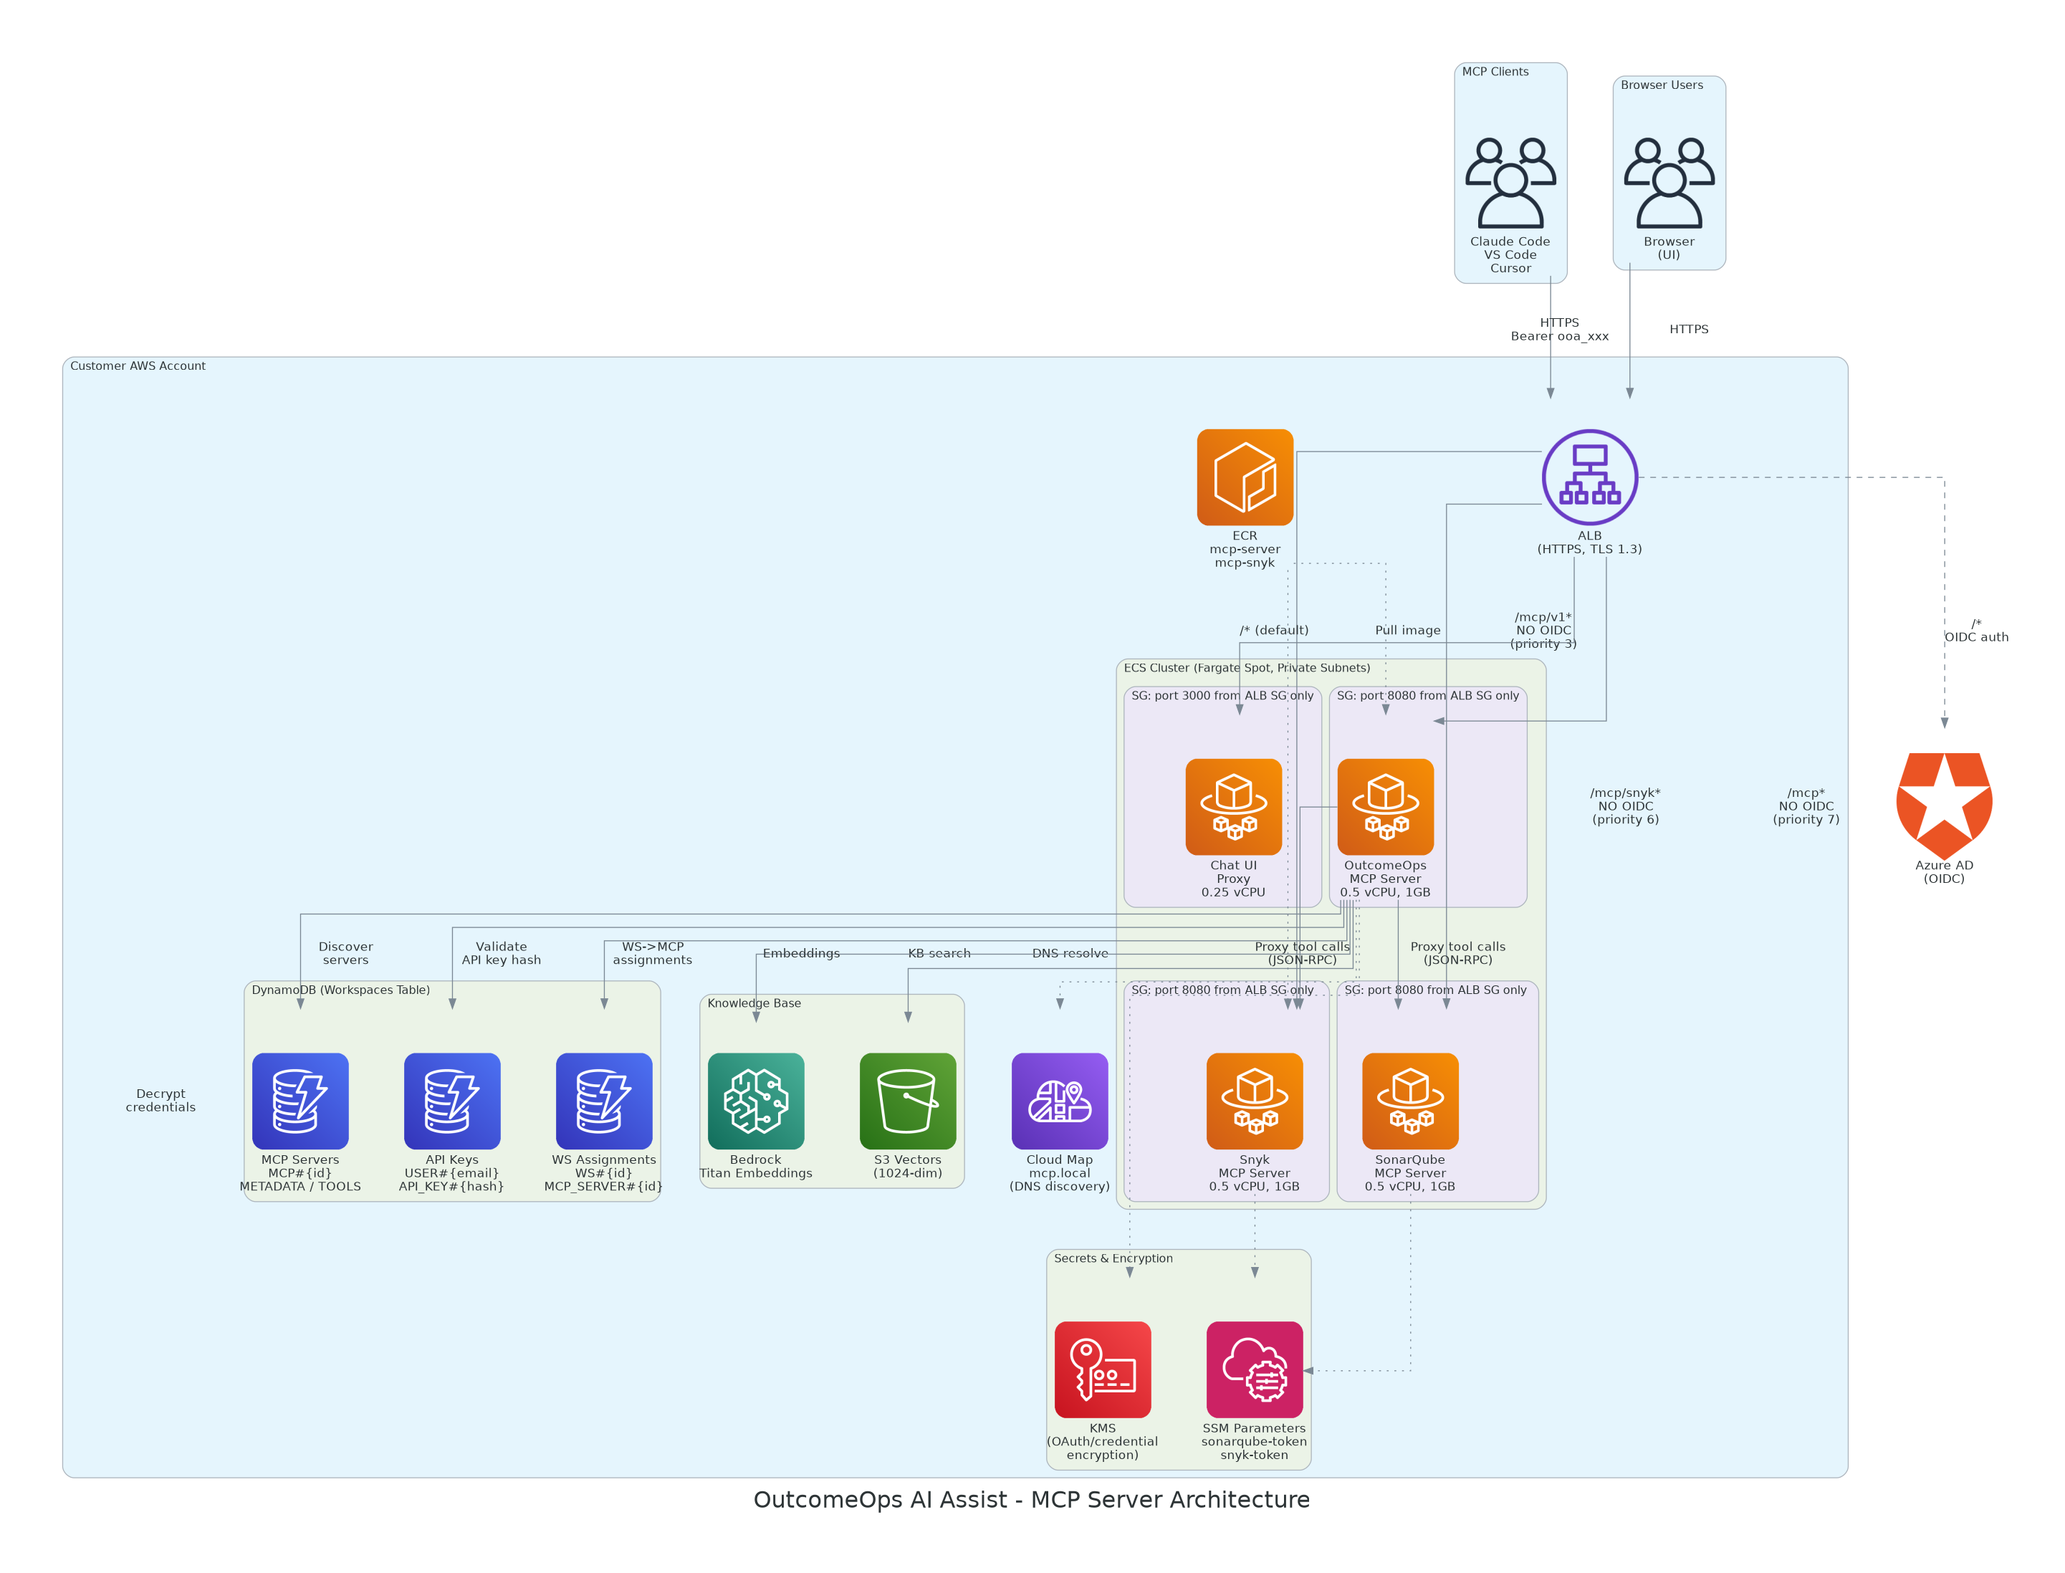
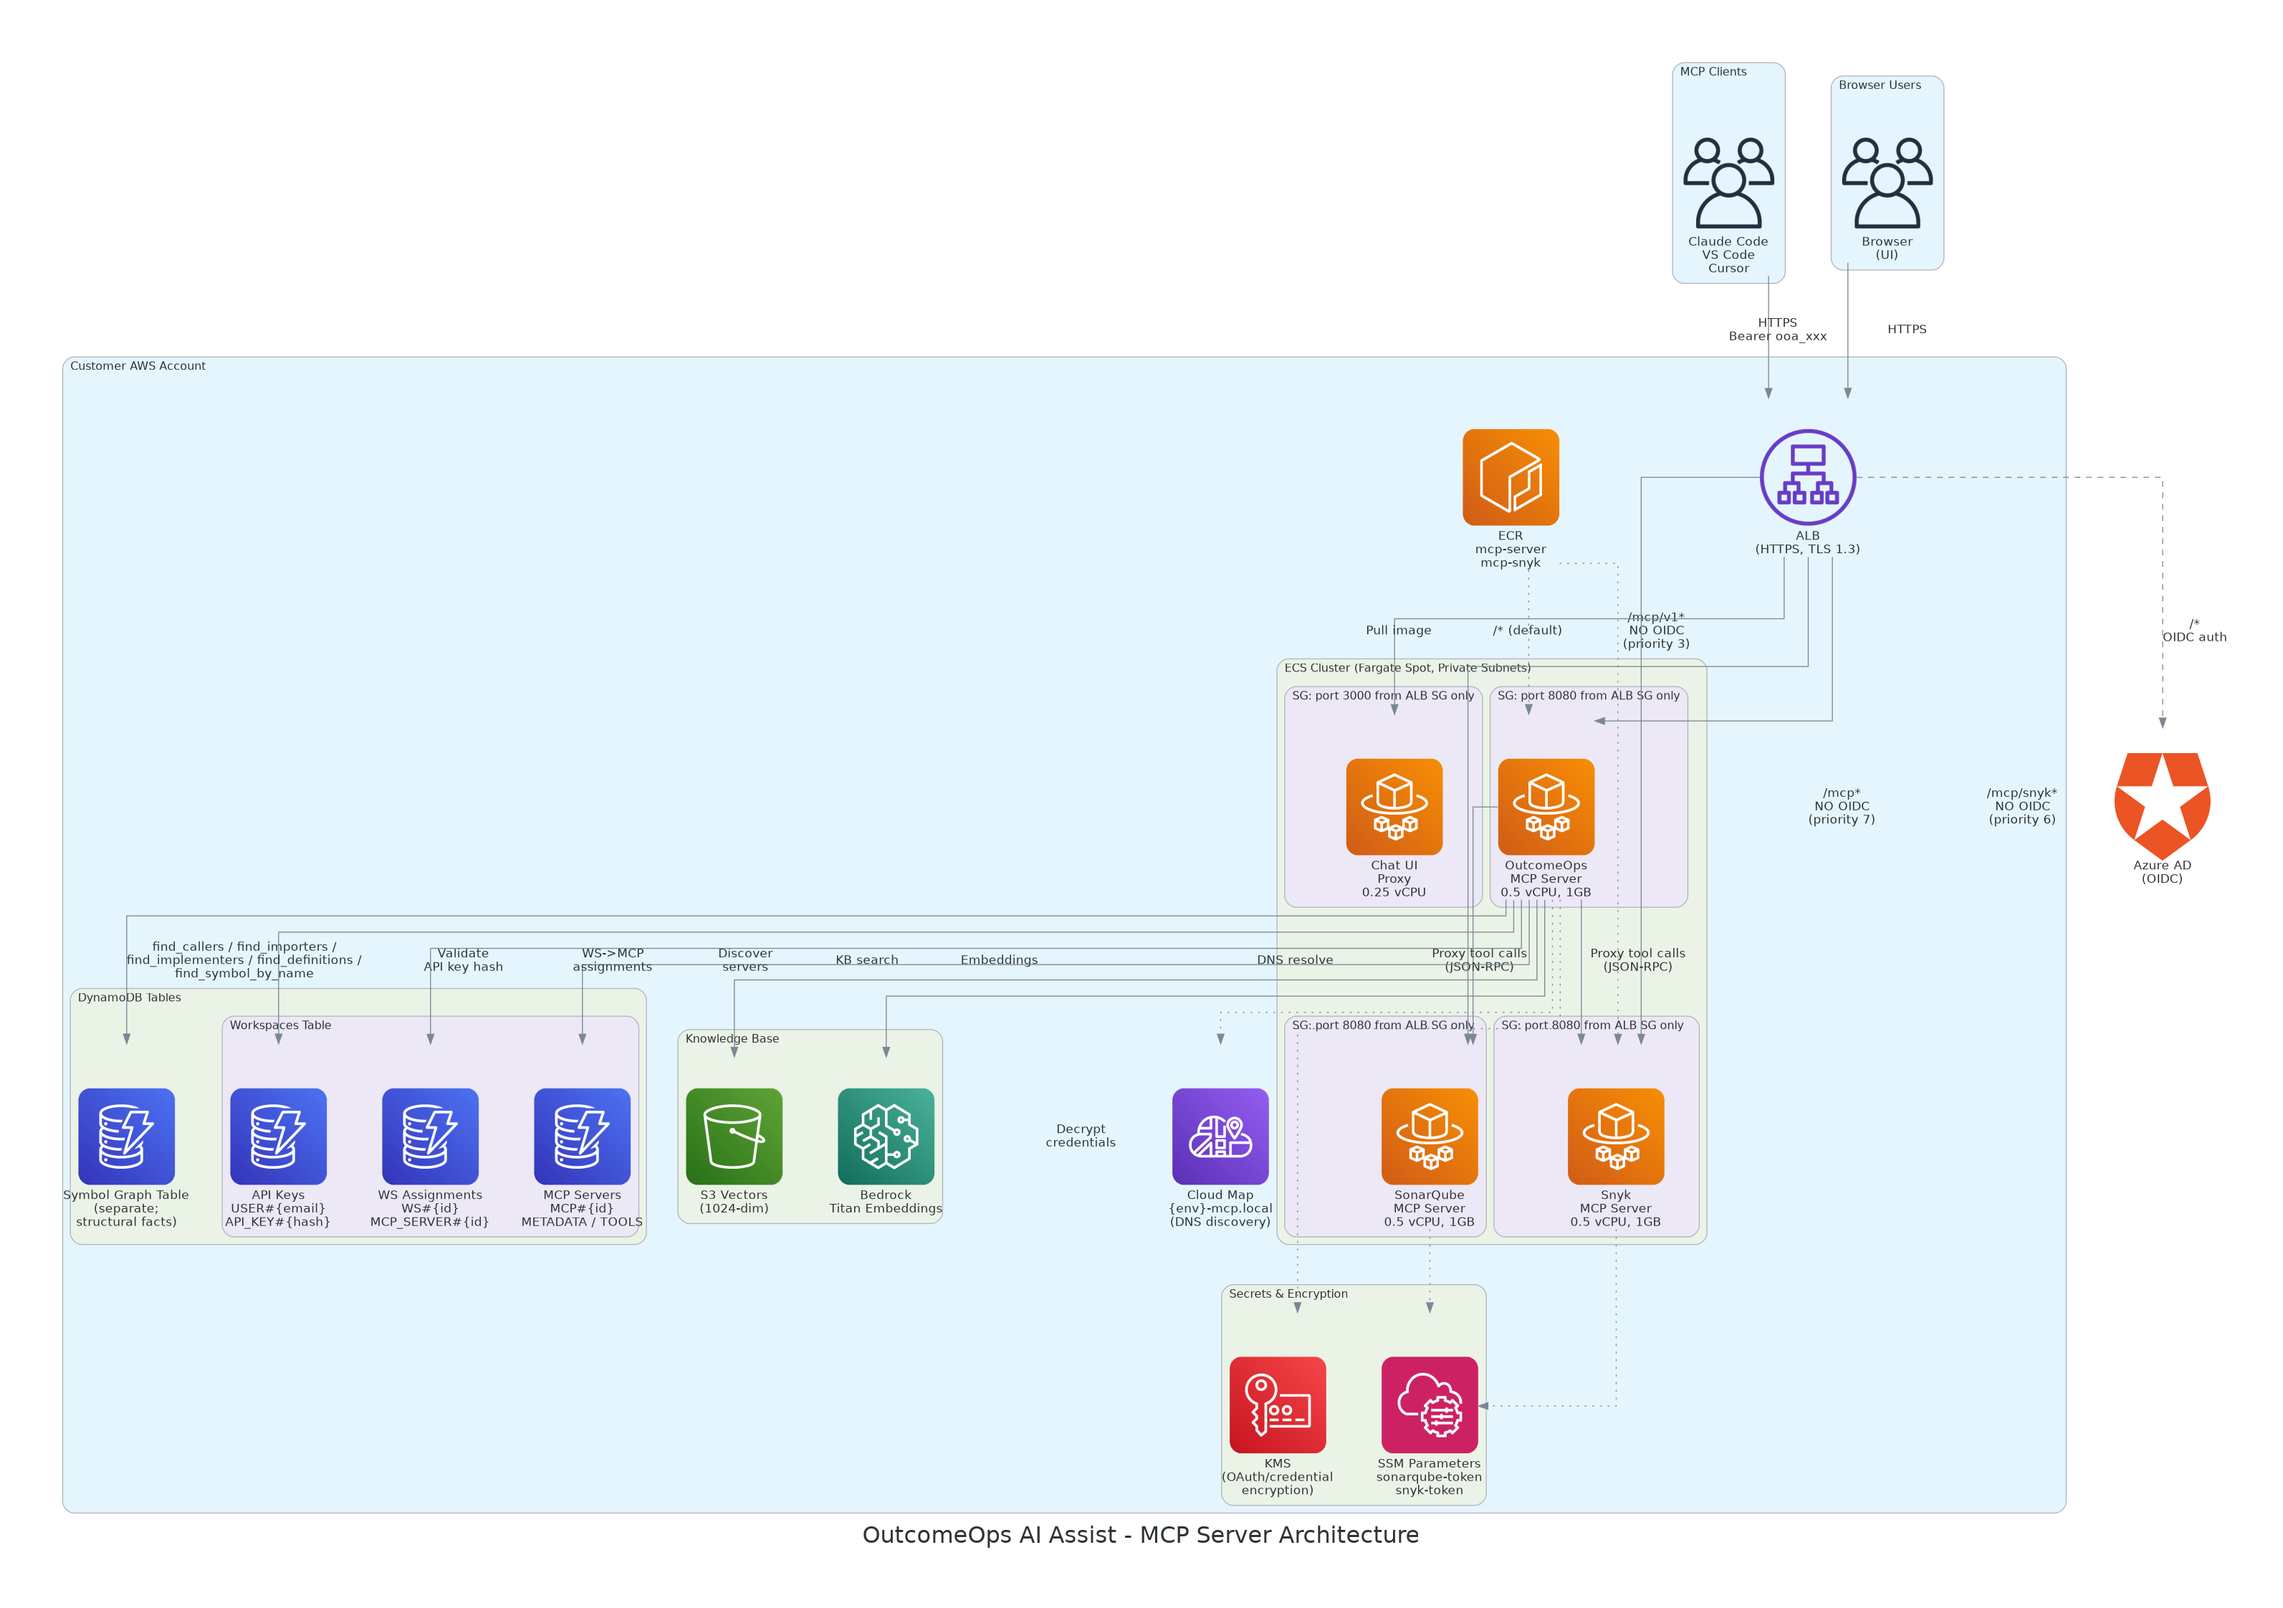
docs(diagrams): add symbol-graph, database, OneDrive/OneNote across 4 diagrams
Three capabilities shipped since these diagrams were last touched and
appeared in none of them:

- Symbol-graph (tree-sitter structural retrieval) — added as a
  separate DDB table node in system_architecture, mcp_architecture,
  and aws_marketplace_architecture; added as a read in data_flow
  Flow 1a (writer) and Flow 2 (router-gated reader). Flow 2 now
  draws the chat router (Bedrock intent classifier) explicitly,
  with the symbol-graph branch dashed as conditional on
  structural/hybrid/unknown intent. mcp_architecture exposes the
  five find_* tools as a labeled edge from the OutcomeOps MCP
  server to the symbol-graph table.

- Database source (MSSQL/MySQL/Postgres) — added as database-sync
  in system_architecture's Integration Lambdas, data_flow's
  Flow 1d, and rolled into aws_marketplace_architecture's
  "Source Sync" label. Added an SNS database-drift topic in each
  with a dashed "drift detected" edge from the database lambda.
  Dotted SSM edge represents DB creds + CA bundle. Per-engine
  breakdown intentionally excluded — too low-level for these
  altitudes.

- OneDrive + OneNote — added as siblings of sharepoint-sync in
  system_architecture and data_flow. Routed through file-ingestion
  in Flow 1d to mirror the existing M365 pattern.
  aws_marketplace_architecture portion is a no-op: M365 sources
  are already implicitly covered by the generic "Optional customer
  integrations" note added in ed41b2e.
[…]

diff --git a/diagrams/data_flow.py b/diagrams/data_flow.py
@@ -9,7 +9,7 @@ from diagrams import Diagram, Cluster, Edge
 from diagrams.aws.compute import Lambda
 from diagrams.aws.storage import S3
 from diagrams.aws.database import Dynamodb
-from diagrams.aws.integration import SQS, Eventbridge
+from diagrams.aws.integration import SQS, Eventbridge, SNS
 from diagrams.aws.ml import Sagemaker, Comprehend
 from diagrams.aws.network import ALB
 from diagrams.aws.compute import Fargate
@@ -48,6 +48,7 @@ with Diagram(
             process_repo = Lambda("process-repo-\nsummary")
             code_maps_queue = SQS("code-maps\nqueue")
             process_batch = Lambda("process-batch-\nsummary")
+            ddb_symbol_graph = Dynamodb("DynamoDB\nsymbol-graph")
 
         with Cluster("1b. Standards Repos"):
             gh_sync_std = Lambda("github-sync\n(standards)")
@@ -65,6 +66,9 @@ with Diagram(
             teams = Lambda("teams-sync")
             sharepoint = Lambda("sharepoint-sync")
             file_ingest = Lambda("file-ingestion")
+            database = Lambda("database-sync\n(MSSQL/MySQL/Postgres)")
+            onedrive = Lambda("onedrive-sync")
+            onenote = Lambda("onenote-sync")
 
     # Ingestion connections
     github >> Edge(label="App webhook") >> gh_sync
@@ -88,7 +92,17 @@ with Diagram(
     jira >> file_ingest
     teams >> file_ingest
     sharepoint >> file_ingest
+    onedrive >> file_ingest
+    onenote >> file_ingest
     file_ingest >> s3_kb
+
+    # Database source: introspects schemas + drift notifications
+    sns_db_drift = SNS("SNS\ndatabase-drift")
+    database >> Edge(label="Introspect\nschemas") >> s3_kb
+    database >> Edge(label="Drift detected", style="dashed") >> sns_db_drift
+
+    # Symbol-graph: tree-sitter facts from process-batch-summary
+    process_batch >> Edge(label="Symbol facts\n(tree-sitter)") >> ddb_symbol_graph
 
     # ============================================================
     # FLOW 2: Chat / RAG Query Pipeline
@@ -97,9 +111,11 @@ with Diagram(
         alb = ALB("ALB")
         fargate = Fargate("Fargate\nChat UI")
         chat_lambda = Lambda("chat-streaming")
+        router = Lambda("router\n(Bedrock intent\nclassifier)")
         titan_query = Sagemaker("Titan\nEmbeddings v2")
         s3_vec_query = S3("S3 Vectors\n(Search)")
         cohere_rerank = Sagemaker("Cohere\nRerank 3.5")
+        ddb_symbol_graph_query = Dynamodb("DynamoDB\nsymbol-graph\n(read)")
         claude_llm = Sagemaker("Claude\nSonnet/Haiku")
         ddb_chat = Dynamodb("DynamoDB\nchat table")
         ddb_audit = Dynamodb("DynamoDB\naudit-logs")
@@ -108,11 +124,20 @@ with Diagram(
     users >> Edge(label="HTTPS") >> alb
     alb >> fargate
     fargate >> Edge(label="SigV4") >> chat_lambda
-    chat_lambda >> Edge(label="1. Embed\nquery") >> titan_query
-    titan_query >> Edge(label="2. Vector\nsearch") >> s3_vec_query
-    s3_vec_query >> Edge(label="3. Over-fetch\ncandidates") >> cohere_rerank
-    cohere_rerank >> Edge(label="4. Reranked\nTop-K") >> claude_llm
-    claude_llm >> Edge(label="5. Synthesized\nresponse") >> chat_lambda
+    chat_lambda >> Edge(label="1. Classify\nintent") >> router
+    router >> Edge(label="2a. Embed\nquery") >> titan_query
+    titan_query >> Edge(label="3a. Vector\nsearch") >> s3_vec_query
+    s3_vec_query >> Edge(label="4a. Over-fetch\ncandidates") >> cohere_rerank
+    cohere_rerank >> Edge(label="5a. Reranked\nTop-K") >> claude_llm
+    router >> Edge(
+        label="2b. structural /\nhybrid / unknown\nonly",
+        style="dashed",
+    ) >> ddb_symbol_graph_query
+    ddb_symbol_graph_query >> Edge(
+        label="3b. Structural\nfacts",
+        style="dashed",
+    ) >> claude_llm
+    claude_llm >> Edge(label="6. Synthesized\nresponse") >> chat_lambda
     chat_lambda >> ddb_chat
     chat_lambda >> ddb_audit
 

diff --git a/diagrams/aws_marketplace_architecture.py b/diagrams/aws_marketplace_architecture.py
@@ -28,7 +28,7 @@ from diagrams.aws.compute import Lambda, Fargate
 from diagrams.aws.network import ALB, Route53, APIGateway
 from diagrams.aws.database import Dynamodb
 from diagrams.aws.storage import S3
-from diagrams.aws.integration import SQS, Eventbridge
+from diagrams.aws.integration import SQS, Eventbridge, SNS
 from diagrams.aws.ml import Sagemaker, Comprehend
 from diagrams.aws.security import KMS
 from diagrams.aws.management import SSM, Cloudwatch
@@ -152,7 +152,9 @@ with Diagram(
                 codegen_svc = Lambda("Code Generation\n(generate-code,\nhandle-command,\nrun-tests, analyze-pr)")
 
             with Cluster("Knowledge Base Ingestion"):
-                ingest_svc = Lambda("Source Sync\n(github, confluence,\njira, sharepoint,\noutlook, teams)")
+                ingest_svc = Lambda("Source Sync\n(github, confluence, jira,\n"
+                                    "sharepoint, outlook, teams,\n"
+                                    "databases (MSSQL/MySQL/Postgres))")
                 process_svc = Lambda("Document &\nCode-Map Processing\n(file-ingestion,\nprocess-documents,\nprocess-repo-summary,\nprocess-batch-summary)")
 
             with Cluster("Workspace & Admin"):
@@ -168,6 +170,7 @@ with Diagram(
                 s3_kb = S3("Knowledge Base\nS3 Bucket")
                 s3_vec = S3("S3 Vectors\n(1024-dim embeddings)")
                 ddb_state = Dynamodb("Workspaces, Chat,\nCode-Maps, Audit Logs\n(DynamoDB)")
+                ddb_symbol_graph = Dynamodb("Symbol Graph\n(structural retrieval)")
 
             # AWS managed services - consumed FROM the buyer's account
             with Cluster("AWS Managed Services (in buyer's account)"):
@@ -179,6 +182,7 @@ with Diagram(
                 kms = KMS("KMS")
                 ssm = SSM("SSM Parameter Store\n(license JWT,\nintegration secrets)")
                 cw = Cloudwatch("CloudWatch\nLogs & Metrics")
+                sns_db_drift = SNS("SNS\ndatabase-drift")
 
             # The license validator layer ATTACHES to gated Lambdas - it's
             # published from the seller account but RUNS in the buyer's
@@ -240,6 +244,15 @@ with Diagram(
     process_svc >> s3_kb
     process_svc >> s3_vec
     process_svc >> ddb_state
+
+    # --- Symbol-graph (structural retrieval) ---
+    process_svc >> Edge(label="Symbol facts") >> ddb_symbol_graph
+    chat_svc >> Edge(label="Structural\naugment", style="dashed") >> ddb_symbol_graph
+    query_svc >> Edge(label="find_* tools", style="dashed") >> ddb_symbol_graph
+
+    # --- Database source: drift notifications ---
+    ingest_svc >> Edge(label="DB schema drift", style="dashed") >> sns_db_drift
+    ssm >> Edge(style="dotted", label="DB creds +\nCA bundle") >> ingest_svc
 
     # --- Workspace / Audit ---
     ws_svc >> ddb_state

diff --git a/diagrams/system_architecture.py b/diagrams/system_architecture.py
@@ -10,7 +10,7 @@ from diagrams.aws.compute import Lambda, Fargate, ECR
 from diagrams.aws.network import ALB, Route53, APIGateway
 from diagrams.aws.database import Dynamodb
 from diagrams.aws.storage import S3
-from diagrams.aws.integration import SQS, Eventbridge
+from diagrams.aws.integration import SQS, Eventbridge, SNS
 from diagrams.aws.ml import Sagemaker, Comprehend
 from diagrams.aws.security import KMS, ACM
 from diagrams.aws.management import SSM, Cloudwatch
@@ -79,6 +79,9 @@ with Diagram(
             teams = Lambda("teams-sync")
             sharepoint = Lambda("sharepoint-sync")
             outlook = Lambda("outlook-sync")
+            database = Lambda("database-sync\n(MSSQL/MySQL/Postgres)")
+            onedrive = Lambda("onedrive-sync")
+            onenote = Lambda("onenote-sync")
 
         with Cluster("Workspace Lambdas"):
             workspace_mgmt = Lambda("workspace-mgmt\n(256MB)")
@@ -108,6 +111,7 @@ with Diagram(
             ddb_codemaps = Dynamodb("code-maps")
             ddb_audit = Dynamodb("audit-logs")
             ddb_workspaces = Dynamodb("workspaces")
+            ddb_symbol_graph = Dynamodb("symbol-graph")
 
         # --- AI/ML ---
         with Cluster("Amazon Bedrock"):
@@ -188,6 +192,13 @@ with Diagram(
     sharepoint >> s3_kb
     outlook >> s3_kb
     file_ingestion >> s3_kb
+    database >> s3_kb
+    onedrive >> s3_kb
+    onenote >> s3_kb
+
+    # Database drift notifications
+    sns_db_drift = SNS("SNS\ndatabase-drift")
+    database >> Edge(label="Schema drift\nnotifications", style="dashed") >> sns_db_drift
 
     # Audit
     ddb_audit >> Edge(label="Streams") >> audit_alert
@@ -195,7 +206,10 @@ with Diagram(
     # Storage & state
     process_repo >> ddb_codemaps
     workspace_mgmt >> ddb_workspaces
+    process_batch >> Edge(label="Symbol facts\n(tree-sitter)") >> ddb_symbol_graph
+    chat >> Edge(label="Structural augment\n(router-gated)", style="dashed") >> ddb_symbol_graph
 
     # Security
     ssm >> Edge(style="dotted") >> chat
+    ssm >> Edge(style="dotted", label="DB creds +\nCA bundle") >> database
     kms >> Edge(style="dotted") >> cw

diff --git a/diagrams/mcp_architecture.py b/diagrams/mcp_architecture.py
@@ -69,10 +69,13 @@ with Diagram(
         cloudmap = CloudMap("Cloud Map\n{env}-mcp.local\n(DNS discovery)")
 
         # --- Data Stores ---
-        with Cluster("DynamoDB (Workspaces Table)"):
-            ddb_keys = Dynamodb("API Keys\nUSER#{email}\nAPI_KEY#{hash}")
-            ddb_mcp = Dynamodb("MCP Servers\nMCP#{id}\nMETADATA / TOOLS")
-            ddb_ws_mcp = Dynamodb("WS Assignments\nWS#{id}\nMCP_SERVER#{id}")
+        with Cluster("DynamoDB Tables"):
+            with Cluster("Workspaces Table"):
+                ddb_keys = Dynamodb("API Keys\nUSER#{email}\nAPI_KEY#{hash}")
+                ddb_mcp = Dynamodb("MCP Servers\nMCP#{id}\nMETADATA / TOOLS")
+                ddb_ws_mcp = Dynamodb("WS Assignments\nWS#{id}\nMCP_SERVER#{id}")
+
+            ddb_symbol_graph = Dynamodb("Symbol Graph Table\n(separate;\nstructural facts)")
 
         with Cluster("Knowledge Base"):
             s3_vectors = S3("S3 Vectors\n(1024-dim)")
@@ -113,6 +116,13 @@ with Diagram(
     # Native tools: KB search
     mcp_outcomeops >> Edge(label="KB search") >> s3_vectors
     mcp_outcomeops >> Edge(label="Embeddings") >> bedrock
+
+    # Native tools: structural retrieval (symbol-graph)
+    mcp_outcomeops >> Edge(
+        label="find_callers / find_importers /\n"
+              "find_implementers / find_definitions /\n"
+              "find_symbol_by_name"
+    ) >> ddb_symbol_graph
 
     # Credentials for downstream servers
     mcp_sonarqube >> Edge(style="dotted") >> ssm
